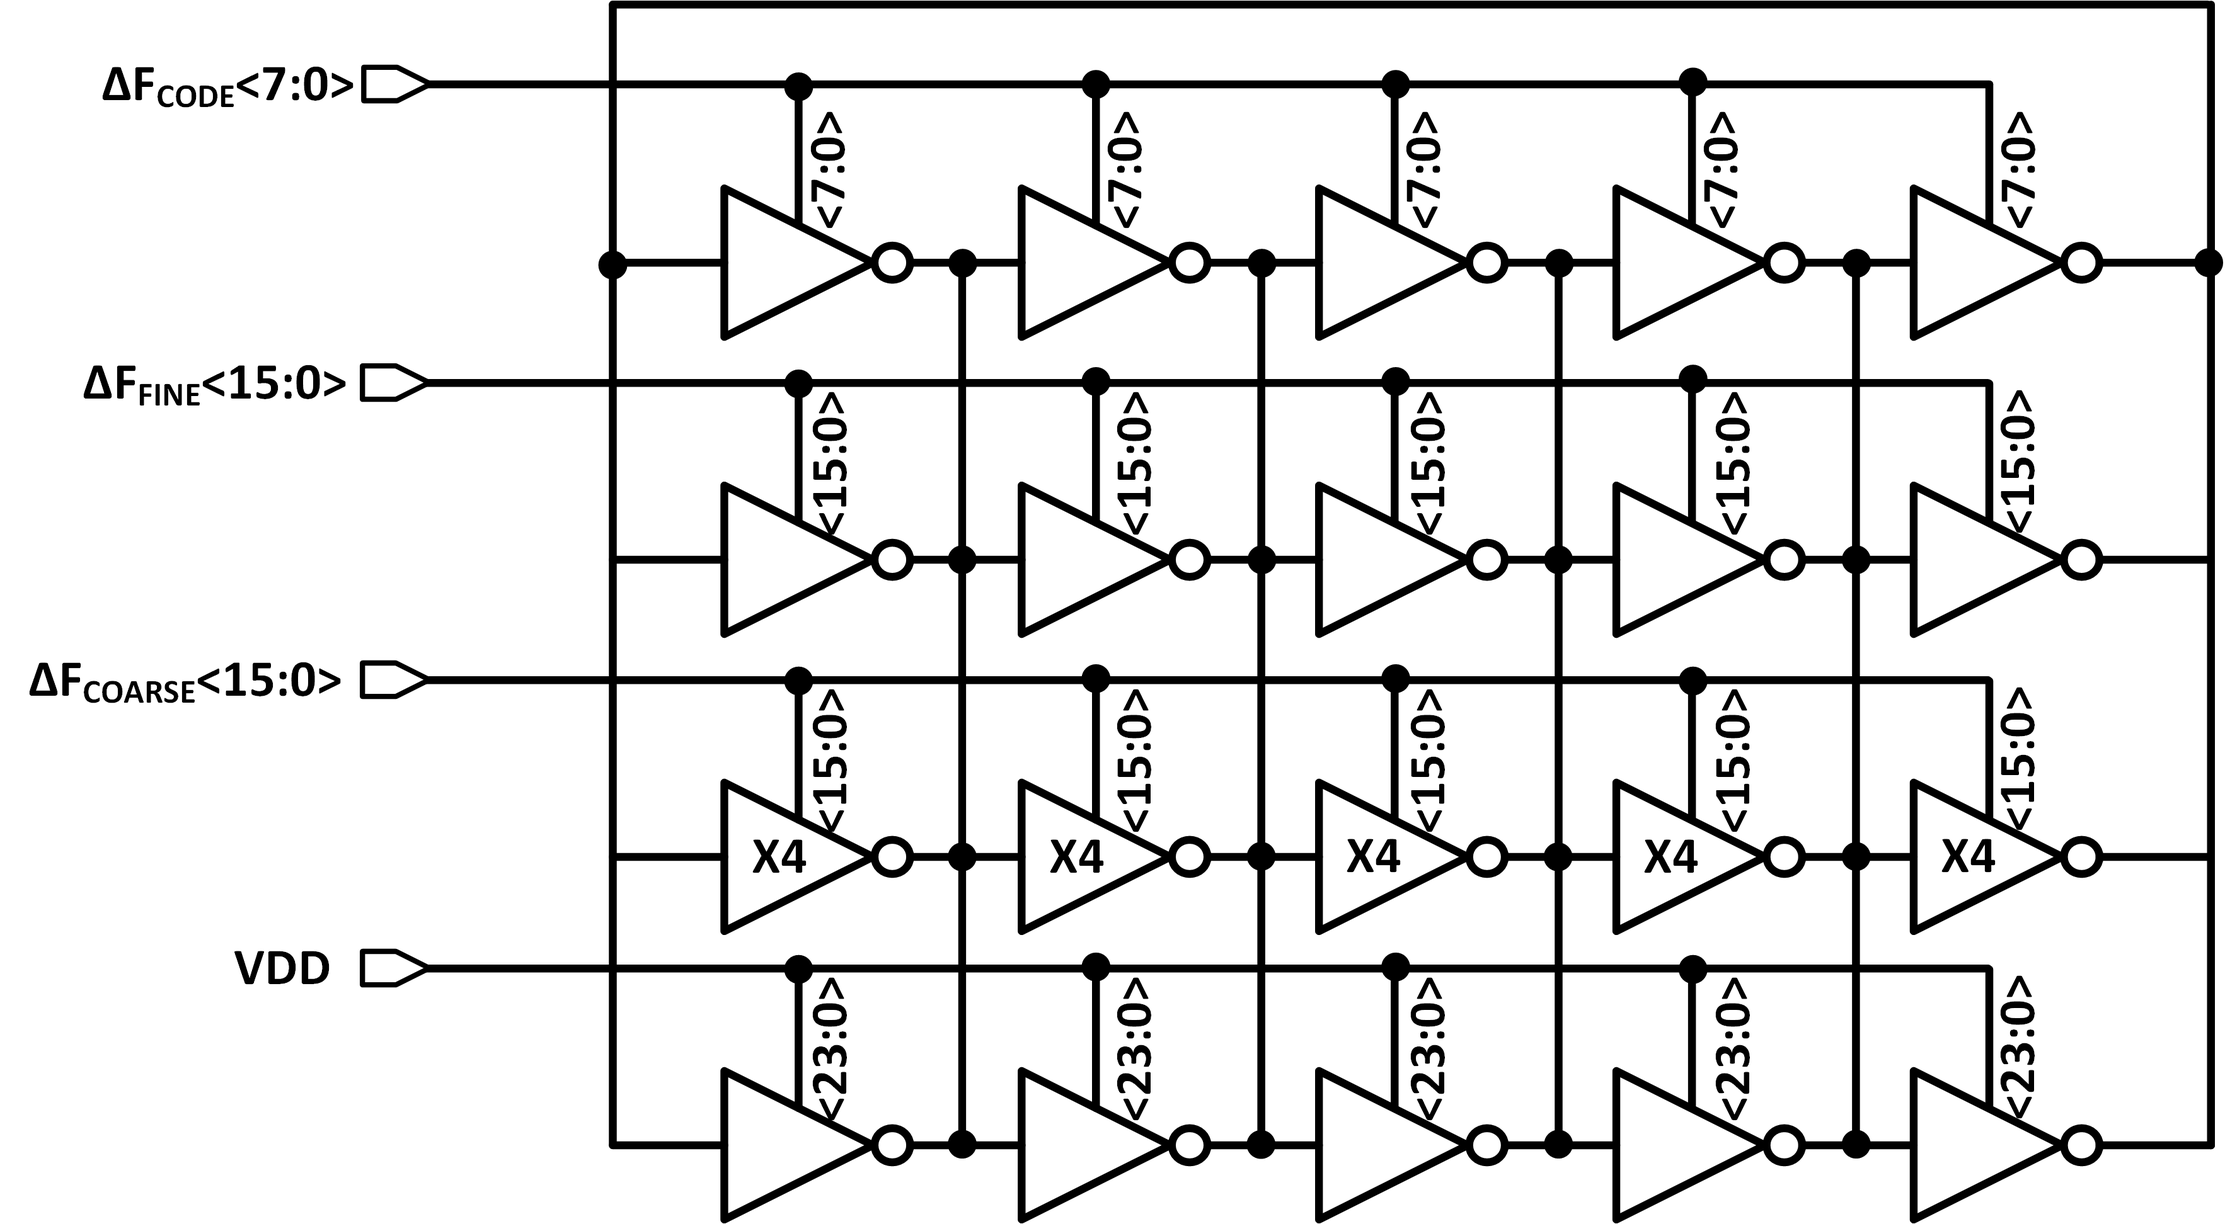
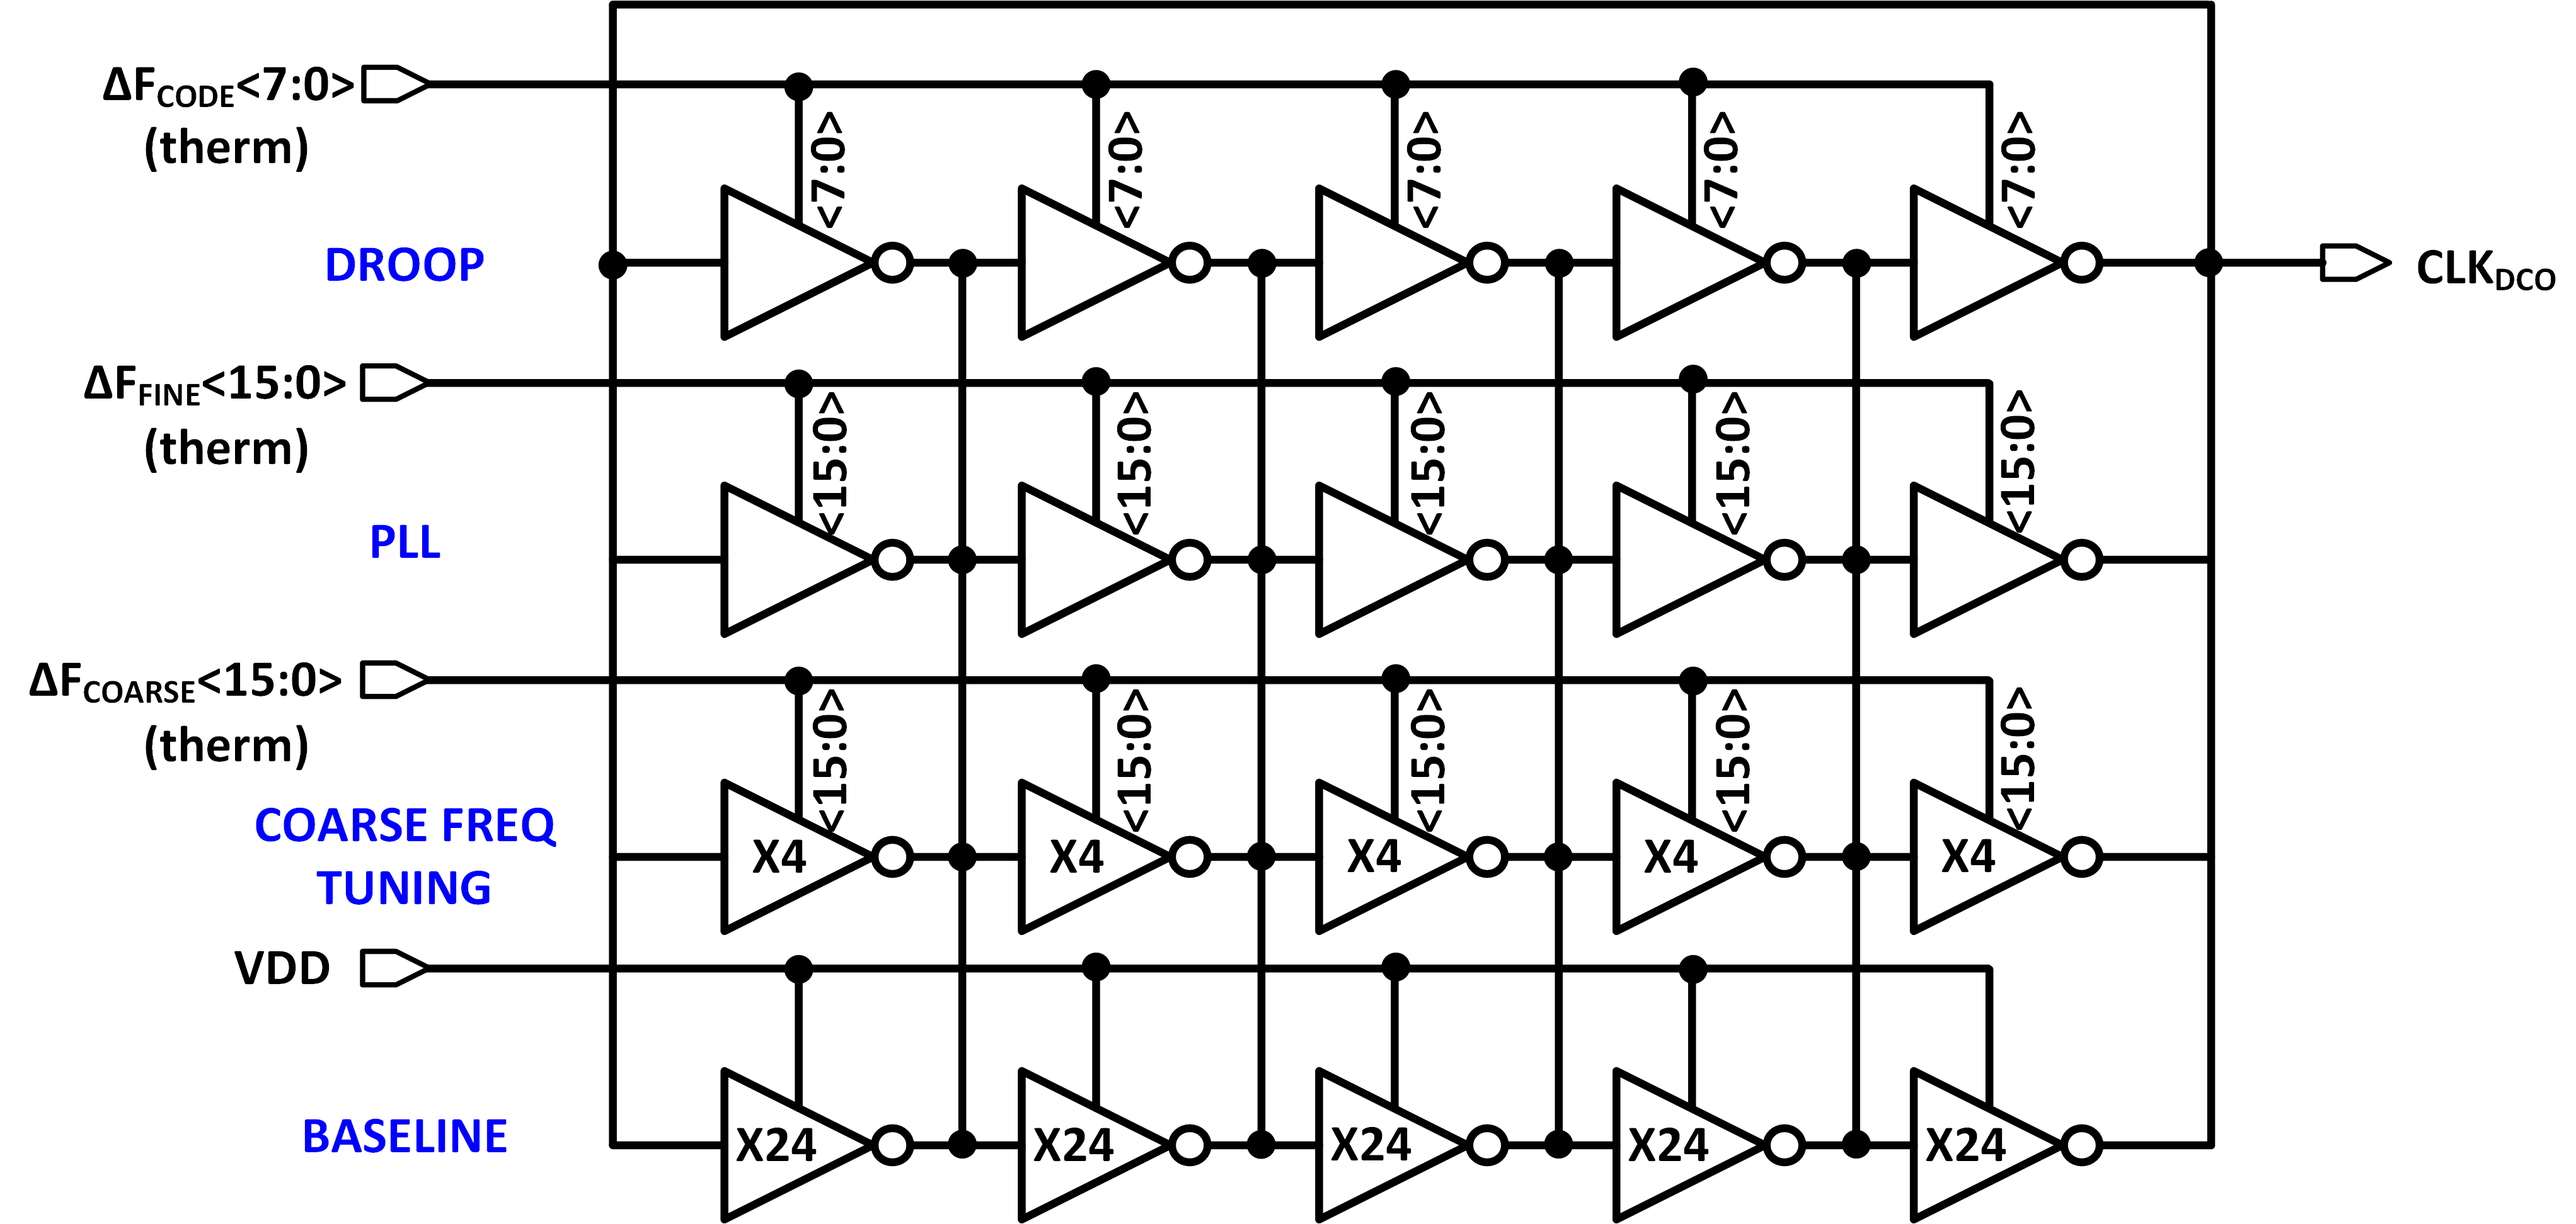
Wahid changes

diff --git a/conference_101719.tex b/conference_101719.tex
@@ -5,6 +5,7 @@
 \usepackage{algorithmic}
 \usepackage{graphicx}
 \usepackage{textcomp}
+\usepackage{svg}
 \def\BibTeX{{\rm B\kern-.05em{\sc i\kern-.025em b}\kern-.08em
     T\kern-.1667em\lower.7ex\hbox{E}\kern-.125emX}}
 %% DO NOT CHANGE
@@ -50,7 +51,7 @@
 
 \markboth{UC Berkeley Proceedings of EE241B, May 2020}{Fritchman \MakeLowercase{\textit{and}} Rahman: \titlestr}
 
-\pubid{~\copyright~2020 University of California, Berkeley}
+% \pubid{~\copyright~2020 University of California, Berkeley}
 
 \begin{document}
 \maketitle
@@ -236,13 +237,7 @@ The top-level PLL architecture is shown in Fig.\ \ref{fig:pll_model}. A bang-ban
 	\label{fig:pll_model}
 \end{figure}
 
-For this prototype design, the $CLK_{DCO}$ was chosen to have an $f_{MAX}$ of 5GHz to match the reported $f_{MAX}$ in \cite{hashimoto2018}. This PLL was designed with a $CLK_{REF}$ frequency of 500MHz and a nominal division ratio $N_{DIV}^{sync}$ of 10. The DCO design consisted of 
-\begin{figure}[h]
-	\centering
-	\includegraphics[width=\columnwidth]{fig_phasemargin}
-	\caption{Top-level implementation of PLL-based scheme from \cite{hashimoto2018}.}
-	\label{fig:phase_margin}
-\end{figure}
+For this prototype design, the $CLK_{DCO}$ was chosen to have an $f_{MAX}$ of 5GHz to match the reported $f_{MAX}$ in \cite{hashimoto2018}. This PLL was designed with a $CLK_{REF}$ frequency of 500MHz and a nominal division ratio $N_{DIV}^{sync}$ of 10. The DCO consisted of custom C2MOS cells as shown in Fig.\ \ref{fig:c2mos}. The top-level DCO schematic, shown in Fig.\ \ref{fig:dco}, was simulated with cell-level RC extractions using Calibre and 60fF of estimated wire capacitances added to each node.
 
 \begin{figure}[h]
 	\centering
@@ -261,9 +256,48 @@ For this prototype design, the $CLK_{DCO}$ was chosen to have an $f_{MAX}$ of 5G
 
 \begin{figure}[h]
 	\centering
-	\includegraphics[width=\columnwidth]{fig_dco}
+	\includegraphics[width=0.9\columnwidth]{fig_dco}
 	\caption{DCO schematic using custom C2MOS cells.}
 	\label{fig:dco}
+\end{figure}
+
+The design objective was to achieve an octave (2:1) frequency tuning range across corners. For brevity, tuning curves for only the typical corner are shown in Fig.\ \ref{fig:dco_oscctrl} and Fig.\ \ref{fig:dco_droopctrl}. The coarse LSB is designed to have approximately 4x the range of the fine LSB: an external frequency calibration circuit (not shown) would centre the DCO frequency to a fixed coarse code, after which the PLL tunes only the fine code. Such a division between coarse and fine obviates gain calibration and range/resolution tradeoffs between the two DACs while still allowing the PLL sufficient tuning range for lock dynamics. 
+
+\begin{figure}[h]
+	\centering
+	\includegraphics[width=0.7\columnwidth]{fig_dco_oscctrl}
+	\caption{DCO frequency vs. coarse + fine DAC code at TT corner.}
+	\label{fig:dco_oscctrl}
+\end{figure}
+
+The smaller droop control DAC was designed to tolerate a 10\% change in frequency at an $f_{MAX}$ of 5GHz. At high $V_{DD}$, this corresponds to roughly a 10\% droop in supply, corresponding to the maximum droop transient shown previously in Fig.\ \ref{fig:droop}. Eight thermometer bits were used for the total droop range, mapping to 60MHz/LSB. Given this DCO gain, the loop filter was tuned with $K_{P}=1$ and $K_{I}=2^{-9}$. An inverse bilinear transform converts the loop filter from the z-domain to the s-domain clocked at $f_{REF}$ of 500MHz, giving a loop phase margin of 79.1 degrees and a unity gain frequency of 810kHz.
+
+\begin{figure}[h]
+	\centering
+	\includegraphics[width=0.7\columnwidth]{fig_dco_droopctrl}
+	\caption{DCO frequency vs. droop code at TT corner(coarse + fine centred at 5GHz).}
+	\label{fig:dco_droopctrl}
+\end{figure}
+
+\begin{figure}[h]
+	\centering
+	\includegraphics[width=0.7\columnwidth]{pnr3.png}
+	\caption{PLL layout in ASAP7 predictive technology (100umx100um). DCO and phase detector are omitted.}
+	\label{fig:layout}
+\end{figure}
+
+\begin{figure}[h]
+	\centering
+	\includesvg[width=\columnwidth]{does_svg_work.svg}
+	\caption{Do SVG images work here? We shall see.}
+	\label{fig:svg}
+\end{figure}
+
+\begin{figure}[h]
+	\centering
+	\includegraphics[width=0.9\columnwidth]{fig_phasemargin}
+	\caption{Top-level implementation of PLL-based scheme from \cite{hashimoto2018}.}
+	\label{fig:phase_margin}
 \end{figure}
 
 \section{Conclusion}
